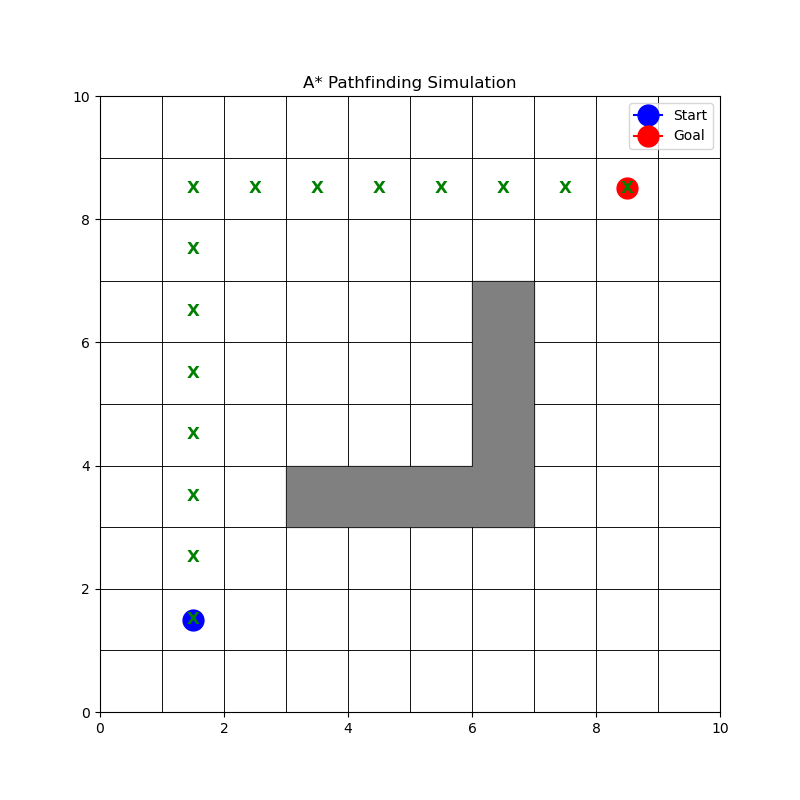
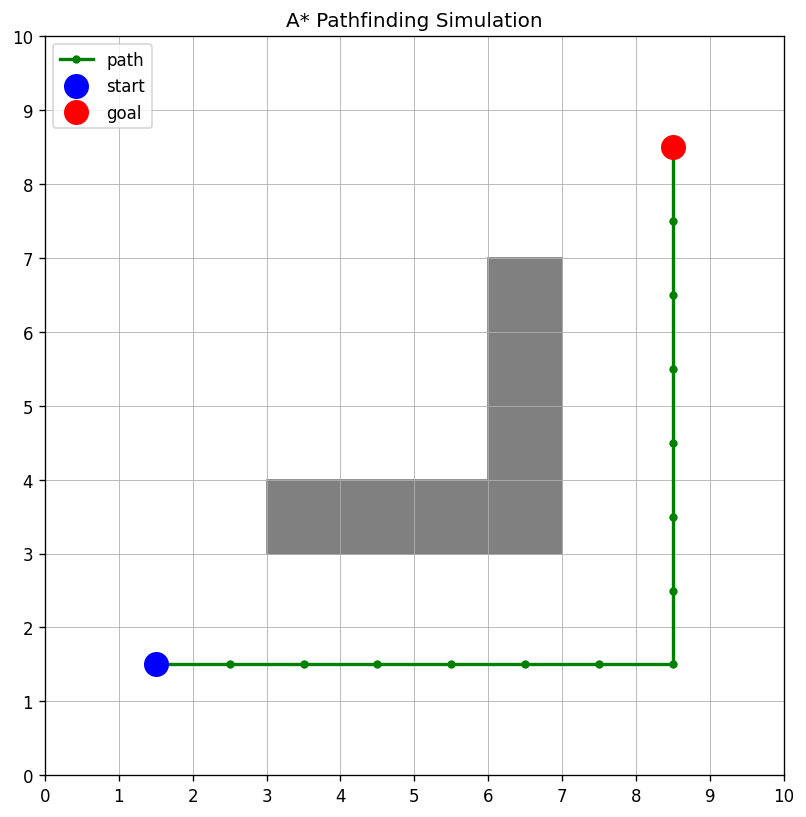
Add closed set and lazy deletion to A* search
- Skip already-expanded nodes and stale priority-queue entries instead
  of re-processing them
- Store g/f scores sparsely with an infinity default rather than
  pre-filling every grid cell
- Add explicit tie-breaking counter so equal-f nodes are never compared
- Redraw grid with Rectangle patches; save Figure_1.png on run
- Add requirements.txt; align README with the implementation

diff --git a/main.py b/main.py
@@ -1,142 +1,149 @@
+"""
+Intelligent Pathfinding using the A* Search Algorithm
+----------------------------------------------------
+Finds the shortest path between two points on a 2D grid with obstacles.
+
+A* explores nodes in order of f(n) = g(n) + h(n):
+    g(n) - actual cost from the start to n
+    h(n) - heuristic estimate from n to the goal (Manhattan distance)
+
+Movement is 4-directional (up/down/left/right) at a uniform cost of 1.
+Manhattan distance is admissible and consistent for this movement model,
+so A* is guaranteed to return an optimal path. (If diagonal moves were
+added, the heuristic would need to change to octile/Euclidean distance.)
+"""
+
 import heapq
+from itertools import count
+
 import matplotlib.pyplot as plt
 
-# --- 1. Define the Grid Environment ---
+
+# --- 1. Define the grid environment ---
 class Grid:
     def __init__(self, width, height, start, goal, obstacles):
         self.width = width
         self.height = height
         self.start = start
         self.goal = goal
-        self.obstacles = obstacles
-        # Create a list of all possible nodes
-        self.nodes = [[(x, y) for y in range(height)] for x in range(width)]
+        self.obstacles = set(obstacles)
 
     def is_valid(self, node):
         x, y = node
-        # Check if node is within bounds and not an obstacle
-        return 0 <= x < self.width and 0 <= y < self.height and node not in self.obstacles
+        return (
+            0 <= x < self.width
+            and 0 <= y < self.height
+            and node not in self.obstacles
+        )
 
     def get_neighbors(self, node):
         x, y = node
-        # Define movements: Right, Left, Up, Down
-        neighbors = [(x+1, y), (x-1, y), (x, y+1), (x, y-1)]
-        valid_neighbors = [n for n in neighbors if self.is_valid(n)]
-        return valid_neighbors
+        candidates = [(x + 1, y), (x - 1, y), (x, y + 1), (x, y - 1)]
+        return [n for n in candidates if self.is_valid(n)]
 
-# --- 2. Implement A* Search Algorithm ---
+
+# --- 2. A* search ---
 class AStar:
     def __init__(self, grid):
         self.grid = grid
         self.start = grid.start
         self.goal = grid.goal
 
-    def manhattan_distance(self, node1, node2):
-        # Heuristic: |x1 - x2| + |y1 - y2|
-        return abs(node1[0] - node2[0]) + abs(node1[1] - node2[1])
+    @staticmethod
+    def manhattan_distance(a, b):
+        return abs(a[0] - b[0]) + abs(a[1] - b[1])
 
     def reconstruct_path(self, came_from, current):
-        path = []
+        path = [current]
         while current in came_from:
-            path.append(current)
             current = came_from[current]
-        path.append(self.start)
+            path.append(current)
         path.reverse()
         return path
 
     def find_path(self):
-        open_set = []
-        # Priority Queue: stores (f_score, node)
-        heapq.heappush(open_set, (0, self.start))
-        
+        # Priority queue holds (f_score, tie_breaker, node). The counter keeps
+        # entries strictly ordered so two nodes with equal f never get compared.
+        counter = count()
+        open_set = [(self.manhattan_distance(self.start, self.goal),
+                     next(counter), self.start)]
+
         came_from = {}
-        
-        # g_score: Cost from start to current node
-        # Initialize all to infinity
-        g_score = {node: float('inf') for row in self.grid.nodes for node in row}
-        g_score[self.start] = 0
-        
-        # f_score: Estimated total cost (g_score + heuristic)
-        f_score = {node: float('inf') for row in self.grid.nodes for node in row}
-        f_score[self.start] = self.manhattan_distance(self.start, self.goal)
+        g_score = {self.start: 0}          # default is treated as infinity
+        closed = set()                     # nodes already expanded
 
         while open_set:
-            # Pop node with lowest f_score
-            current_f, current = heapq.heappop(open_set)
+            _, _, current = heapq.heappop(open_set)
+
+            # Skip stale queue entries left behind by an earlier, worse path.
+            if current in closed:
+                continue
+            closed.add(current)
 
             if current == self.goal:
                 return self.reconstruct_path(came_from, current)
 
             for neighbor in self.grid.get_neighbors(current):
-                # Tentative g_score is current g + 1 (assuming cost of 1 per step)
+                if neighbor in closed:
+                    continue
                 tentative_g = g_score[current] + 1
-
-                if tentative_g < g_score[neighbor]:
-                    # This path to neighbor is better than any previous one
+                if tentative_g < g_score.get(neighbor, float("inf")):
                     came_from[neighbor] = current
                     g_score[neighbor] = tentative_g
-                    f_score[neighbor] = tentative_g + self.manhattan_distance(neighbor, self.goal)
-                    
-                    # Add to priority queue if not already there (or update it)
-                    heapq.heappush(open_set, (f_score[neighbor], neighbor))
+                    f_score = tentative_g + self.manhattan_distance(neighbor, self.goal)
+                    heapq.heappush(open_set, (f_score, next(counter), neighbor))
 
-        return None # No path found
+        return None  # no path exists
+
 
 # --- 3. Visualization ---
-def visualize_path(grid, path):
-    plt.figure(figsize=(8, 8))
-    
-    # Draw the grid
-    for x in range(grid.width):
-        for y in range(grid.height):
-            if (x, y) in grid.obstacles:
-                # Draw Obstacle (Gray)
-                plt.fill_between([x, x+1], [y, y], [y+1, y+1], color='gray')
-            else:
-                # Draw Empty Space (White with borders)
-                plt.plot([x, x+1, x+1, x, x], [y, y, y+1, y+1, y], color='black', linewidth=0.5)
+def visualize_path(grid, path, save_as="Figure_1.png"):
+    fig, ax = plt.subplots(figsize=(8, 8))
 
-    # Draw the Path
+    for (ox, oy) in grid.obstacles:
+        ax.add_patch(plt.Rectangle((ox, oy), 1, 1, color="gray"))
+
     if path:
-        for node in path:
-            # Mark path nodes with 'X'
-            plt.text(node[0] + 0.5, node[1] + 0.5, 'X', ha='center', va='center', fontsize=12, color='green', weight='bold')
+        xs = [n[0] + 0.5 for n in path]
+        ys = [n[1] + 0.5 for n in path]
+        ax.plot(xs, ys, color="green", linewidth=2, marker="o", markersize=4,
+                label="path")
 
-    # Draw Start (Blue Circle) and Goal (Red Circle)
-    plt.plot(grid.start[0] + 0.5, grid.start[1] + 0.5, marker='o', markersize=15, color='blue', label='Start')
-    plt.plot(grid.goal[0] + 0.5, grid.goal[1] + 0.5, marker='o', markersize=15, color='red', label='Goal')
+    ax.plot(grid.start[0] + 0.5, grid.start[1] + 0.5, "o", markersize=14,
+            color="blue", label="start")
+    ax.plot(grid.goal[0] + 0.5, grid.goal[1] + 0.5, "o", markersize=14,
+            color="red", label="goal")
 
-    plt.xlim(0, grid.width)
-    plt.ylim(0, grid.height)
-    plt.grid(False)
-    plt.title('A* Pathfinding Simulation')
-    plt.legend(loc='upper right')
+    ax.set_xticks(range(grid.width + 1))
+    ax.set_yticks(range(grid.height + 1))
+    ax.set_xlim(0, grid.width)
+    ax.set_ylim(0, grid.height)
+    ax.set_aspect("equal")
+    ax.grid(True, linewidth=0.5)
+    ax.set_title("A* Pathfinding Simulation")
+    ax.legend(loc="upper left")
+
+    fig.savefig(save_as, dpi=120, bbox_inches="tight")
     plt.show()
 
-# --- Main Execution ---
+
+# --- Main execution ---
 if __name__ == "__main__":
-    # Define Start, Goal, and Obstacles
     start_pos = (1, 1)
     goal_pos = (8, 8)
-    
-    # Let's create a "wall" of obstacles to force the algorithm to go around
     obstacles_list = [
-        (3, 3), (4, 3), (5, 3), (6, 3), # Horizontal wall
-        (6, 4), (6, 5), (6, 6)          # Vertical wall
+        (3, 3), (4, 3), (5, 3), (6, 3),   # horizontal wall
+        (6, 4), (6, 5), (6, 6),           # vertical wall
     ]
 
-    # Initialize Environment
-    print("Initializing Grid...")
-    my_grid = Grid(10, 10, start_pos, goal_pos, obstacles_list)
-    
-    # Run A* Algorithm
-    print("Running A* Search...")
-    astar_solver = AStar(my_grid)
-    final_path = astar_solver.find_path()
+    grid = Grid(10, 10, start_pos, goal_pos, obstacles_list)
 
-    if final_path:
-        print(f"Path Found: {final_path}")
-        print("Displaying visualization...")
-        visualize_path(my_grid, final_path)
+    print("Running A* search...")
+    path = AStar(grid).find_path()
+
+    if path:
+        print(f"Path found ({len(path)} steps, cost {len(path) - 1}):")
+        print(path)
+        visualize_path(grid, path)
     else:
         print("No path found.")

diff --git a/README.md b/README.md
@@ -25,6 +25,8 @@ This makes A\* both **complete** (always finds a path if one exists) and **optim
 - **Manhattan distance** heuristic for grid-based movement
 - Path reconstruction from goal back to start
 - **Matplotlib visualization** — renders the grid, obstacles, optimal path, start and goal points
+- **Closed set + lazy deletion** — expanded nodes are never revisited, and stale priority-queue entries are skipped instead of re-processed
+- **Sparse `g`/`f` scores** — costs are stored in a dict with an infinity default, not pre-filled for every cell
 
 ---
 
@@ -34,7 +36,7 @@ This makes A\* both **complete** (always finds a path if one exists) and **optim
 ![Matplotlib](https://img.shields.io/badge/Matplotlib-11557C?style=flat-square&logo=python&logoColor=white)
 
 - **Language:** Python 3
-- **Libraries:** `heapq` (built-in), `matplotlib`
+- **Libraries:** `heapq`, `itertools.count` (built-in), `matplotlib`
 - **Concepts:** Graph Search, Heuristic Functions, Priority Queues, OOP
 
 ---
@@ -44,8 +46,9 @@ This makes A\* both **complete** (always finds a path if one exists) and **optim
 ```
 intelligent-pathfinding-astar/
 ├── main.py            # A* algorithm implementation + visualization
+├── requirements.txt   # Python dependencies
 ├── Figure_1.png       # Sample output — visualized path
-├── Major Project.pdf  # Full project report (SmartED Innovations internship)
+├── Major Project.pdf  # Full project report
 └── README.md
 ```
 
@@ -59,7 +62,7 @@ intelligent-pathfinding-astar/
 
 ### Install dependency
 ```bash
-pip install matplotlib
+pip install -r requirements.txt
 ```
 
 ### Run the algorithm
@@ -69,13 +72,12 @@ python main.py
 
 ### Expected output
 ```
-Initializing Grid...
-Running A* Search...
-Path Found: [(1, 1), (2, 1), (2, 2), (2, 3), (2, 4), ...]
-Displaying visualization...
+Running A* search...
+Path found (15 steps, cost 14):
+[(1, 1), (2, 1), (3, 1), (4, 1), (5, 1), (6, 1), (7, 1), (8, 1), (8, 2), ...]
 ```
 
-A matplotlib window will open showing the 10×10 grid with the optimal path marked in green **X** markers, navigating around the wall obstacles from Start (blue) to Goal (red).
+A matplotlib window opens (and `Figure_1.png` is saved) showing the 10×10 grid with the optimal path in green, routing around the wall obstacles from Start (blue) to Goal (red).
 
 ---
 
@@ -90,7 +92,9 @@ Obstacles (a wall + vertical extension):
   Vertical:   (6,4) (6,5) (6,6)
 ```
 
-The algorithm explores nodes using a priority queue ordered by `f(n)`. When it reaches the goal, it reconstructs the path by backtracking through the `came_from` dictionary.
+The algorithm explores nodes from a priority queue ordered by `f(n)`. Each node is expanded at most once (tracked in a `closed` set); when a shorter route to a node is found, a fresh queue entry is pushed and the old one is ignored when it surfaces. On reaching the goal the path is rebuilt by backtracking through `came_from`.
+
+Movement is 4-directional at uniform cost, which is what makes the Manhattan heuristic admissible and consistent here. Adding diagonal moves would require an octile/Euclidean heuristic to keep the optimality guarantee.
 
 ---
 
